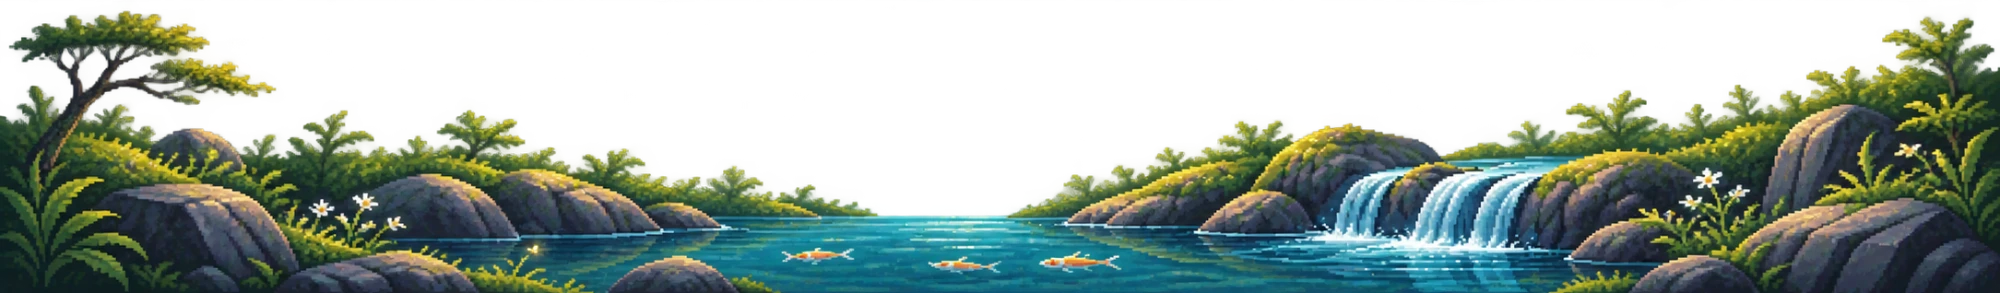
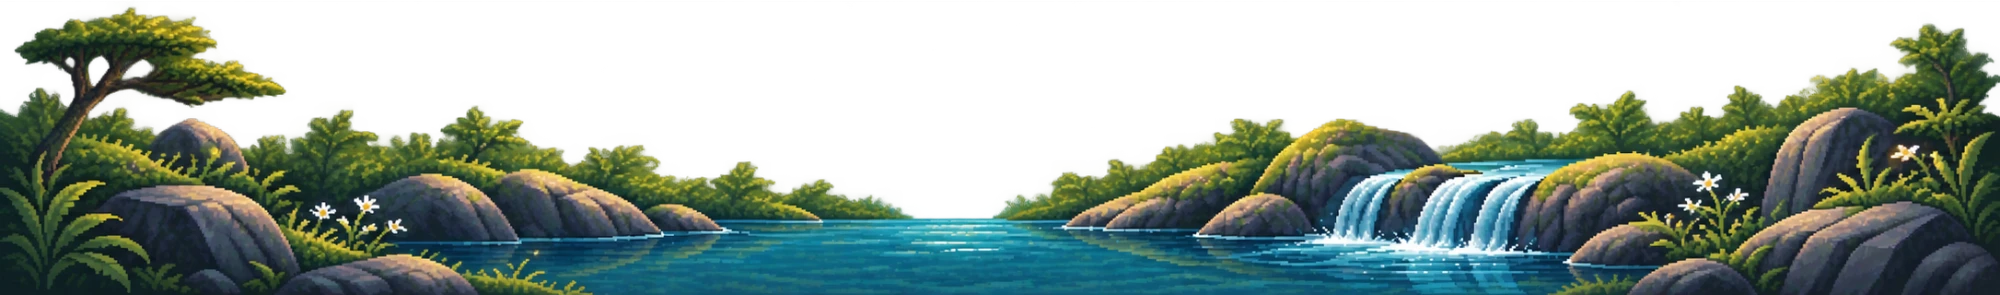
switches to the fish-free paintings and draws pixel koi by day and glowing fish at night, strengthens the plant and fish glow, and adds a soft colour wash rising from the scene into the post

Changed region(s): [[0.0, 0.0307, 1.0, 1.0], [0.124, 0.9215, 0.155, 0.9522], [0.062, 0.9215, 0.093, 0.9522]]

diff --git a/app/components/pond-scene.tsx b/app/components/pond-scene.tsx
@@ -3,16 +3,16 @@
 import { useEffect, useRef } from "react";
 
 // The scene at the bottom of each post: a painted pond with a waterfall,
-// rocks and plants (public/assets/pond-day.webp and pond-night.webp, 2000x293
-// with transparent skies), brought to life on a canvas.
+// rocks and plants (public/assets/pond-day.webp and pond-night.webp, about
+// 2000x295 with transparent skies), brought to life on a canvas.
 //
 // Each painting is sampled down to a 500x73 grid, about the size of its art
 // pixels, and scaled back up with crisp pixels. On load it's scanned for its
-// water, waterfall, fish and (at night) glowing plants; each frame copies
-// that base and animates them:
+// water, waterfall and (at night) glowing plants; each frame copies that base
+// and animates them:
 //   - the pond's surface shimmers and catches glints,
 //   - the waterfall's painted pixels pour downward, with foam at its foot,
-//   - the painted fish are lifted off the water and swim back and forth,
+//   - pixel fish (koi by day, glowing fish at night) swim back and forth,
 //     slipping behind the rocks,
 //   - at night the mushrooms, coral and painted fireflies pulse with a soft
 //     stepped glow; by day a dragonfly hovers and darts over the pond.
@@ -30,38 +30,68 @@ const FPS_INTERVAL = 1000 / 15;
 const SRC: Record<Theme, string> = { day: "/assets/pond-day.webp", night: "/assets/pond-night.webp" };
 
 // Where things are in the paintings, in grid pixels. The two share a layout.
-const POND = { x0: 100, x1: 420, top: 53 }; // open water lies inside this, below `top`
+const POND = { x0: 100, x1: 420, top: 52 }; // open water lies inside this, below `top`
 const FALLS = { x0: 326, x1: 388, top: 38, bottom: 63 };
 const FOAM = { x0: 330, x1: 392, top: 57, bottom: 64 };
-// Boxes around each painted fish, roomy enough to hold it.
-const FISH_BOXES: Record<Theme, [number, number, number, number][]> = {
-  day: [
-    [190, 60, 220, 69],
-    [226, 61, 256, 71],
-    [255, 61, 286, 70],
-  ],
-  night: [
-    [180, 62, 205, 70],
-    [213, 66, 240, 73],
-    [266, 63, 292, 73],
-  ],
-};
 
 const hash = (x: number, y: number, z = 0) => {
   const s = Math.sin(x * 127.1 + y * 311.7 + z * 74.7) * 43758.5453;
   return s - Math.floor(s);
 };
 
-type Fish = { sprite: { dx: number; dy: number; c: RGB }[]; cx: number; cy: number; range: number; speed: number; phase: number; glow: RGB };
+// ---------------------------------------------------------------------------
+// Fish: pixel sprites drawn over the water (the paintings have none of their
+// own). Facing right; mirrored when swimming left. Each letter is a colour
+// role; the tail has two frames so it flicks.
+//   f fin   b body   s spot   h head   e eye   w belly   t tail
+// ---------------------------------------------------------------------------
+
+const FISH_SHAPE = [
+  "....ff....",
+  "..bbbbbhh.",
+  ".bbssbbhhe",
+  "..wwwwwhh.",
+];
+// Tail pixels, [column, row] in the shape's grid: spread, then closed.
+const TAIL_FRAMES: [number, number][][] = [
+  [[0, 2], [-1, 1], [-2, 1], [-1, 3], [-2, 3]],
+  [[0, 2], [-1, 2], [-2, 1], [-2, 3]],
+];
+const FISH_ANCHOR = { col: 5, row: 2 }; // the shape's centre
+
+type FishLook = Record<"f" | "b" | "s" | "h" | "e" | "w" | "t", RGB>;
+const FISH_LOOKS: Record<Theme, FishLook[]> = {
+  day: [
+    // Orange koi with white patches.
+    { f: [222, 96, 40], b: [244, 120, 46], s: [250, 244, 232], h: [248, 140, 64], e: [40, 28, 28], w: [252, 236, 214], t: [226, 102, 42] },
+    // White koi with orange patches.
+    { f: [236, 228, 216], b: [250, 246, 238], s: [242, 126, 50], h: [246, 140, 70], e: [40, 28, 28], w: [255, 252, 246], t: [232, 224, 212] },
+    // Golden koi.
+    { f: [214, 156, 40], b: [242, 190, 60], s: [250, 222, 120], h: [246, 204, 90], e: [40, 28, 28], w: [252, 236, 186], t: [220, 164, 46] },
+  ],
+  night: [
+    // Glowing fish, like the landing scene's.
+    { f: [90, 210, 230], b: [120, 240, 255], s: [210, 255, 255], h: [170, 250, 255], e: [12, 40, 60], w: [190, 255, 255], t: [90, 220, 240] },
+    { f: [150, 120, 230], b: [180, 160, 255], s: [235, 225, 255], h: [210, 195, 255], e: [20, 20, 50], w: [225, 215, 255], t: [160, 130, 240] },
+    { f: [80, 200, 170], b: [120, 250, 210], s: [210, 255, 240], h: [170, 255, 230], e: [10, 40, 40], w: [200, 255, 240], t: [90, 220, 190] },
+  ],
+};
+
+// Each fish swims back and forth along its own lane of the pond.
+const FISH_LANES = [
+  { cx: 205, cy: 64, range: 26, speed: 0.2, phase: 0 },
+  { cx: 262, cy: 68, range: 30, speed: 0.16, phase: 2.4 },
+  { cx: 300, cy: 61, range: 18, speed: 0.25, phase: 4.1 },
+];
+
 type Column = { idx: number[]; colors: RGB[]; speed: number; phase: number };
 
 type Scene = {
-  base: Uint8ClampedArray; // the painting with its fish lifted off
+  base: Uint8ClampedArray; // the painting, sampled down
   water: Uint8Array; // open water: 1 where fish may swim and the surface shimmers
   waterIdx: number[];
   columns: Column[];
   foam: number[];
-  fish: Fish[];
   glow: { i: number; phase: number }[]; // glowing pixels at night
   halo: Float32Array | null; // r, g, b, strength per pixel, around the glow
 };
@@ -69,12 +99,9 @@ type Scene = {
 function buildScene(base: Uint8ClampedArray, theme: Theme): Scene {
   const at = (i: number): RGB => [base[i * 4], base[i * 4 + 1], base[i * 4 + 2]];
   const alpha = (i: number) => base[i * 4 + 3];
-  const set = (i: number, c: RGB) => {
-    base[i * 4] = c[0];
-    base[i * 4 + 1] = c[1];
-    base[i * 4 + 2] = c[2];
-  };
-  const isWaterColor = ([r, g, b]: RGB) => b > r + 40 && g > r + 30 && b > 70;
+  // The night pond is much darker, so it gets a looser test.
+  const isWaterColor = ([r, g, b]: RGB) =>
+    theme === "day" ? b > r + 40 && g > r + 30 && b > 70 : b > r + 25 && g > r + 15 && b > 40;
   const inFalls = (x: number, y: number) => x >= FALLS.x0 && x <= FALLS.x1 && y >= FALLS.top && y <= FALLS.bottom;
 
   // Open water: water-coloured pixels inside the pond, outside the falls.
@@ -84,50 +111,6 @@ function buildScene(base: Uint8ClampedArray, theme: Theme): Scene {
       const i = y * W + x;
       if (alpha(i) > 200 && !inFalls(x, y) && isWaterColor(at(i))) water[i] = 1;
     }
-
-  // Fish: inside each box, the pixels that aren't plain water (their outlines
-  // included), plus, at night, the bright cyan of their glowing bodies. Lift
-  // them off as a sprite and paint the water back in from either side.
-  const fish: Fish[] = [];
-  FISH_BOXES[theme].forEach(([x0, y0, x1, y1], n) => {
-    const isFish = (r: number, g: number, b: number) =>
-      !isWaterColor([r, g, b]) || (theme === "day" ? r + g + b > 560 : r + g + b > 330);
-    const pts: { x: number; y: number; c: RGB }[] = [];
-    for (let y = y0; y <= Math.min(y1, H - 1); y++)
-      for (let x = x0; x <= x1; x++) {
-        const i = y * W + x;
-        const c = at(i);
-        if (alpha(i) > 200 && isFish(...c)) pts.push({ x, y, c });
-      }
-    if (pts.length < 4) return;
-    const cx = Math.round(pts.reduce((s, p) => s + p.x, 0) / pts.length);
-    const cy = Math.round(pts.reduce((s, p) => s + p.y, 0) / pts.length);
-    const taken = new Set(pts.map((p) => p.y * W + p.x));
-    for (const p of pts) {
-      // Nearest water on the left and right of this pixel, blended.
-      let l: RGB | null = null;
-      let r: RGB | null = null;
-      for (let k = 1; k < 30 && (!l || !r); k++) {
-        const li = p.y * W + p.x - k;
-        const ri = p.y * W + p.x + k;
-        if (!l && p.x - k >= 0 && !taken.has(li) && isWaterColor(at(li))) l = at(li);
-        if (!r && p.x + k < W && !taken.has(ri) && isWaterColor(at(ri))) r = at(ri);
-      }
-      const fill = l && r ? ([(l[0] + r[0]) / 2, (l[1] + r[1]) / 2, (l[2] + r[2]) / 2] as RGB) : (l ?? r);
-      if (fill) set(p.y * W + p.x, fill);
-      water[p.y * W + p.x] = 1;
-    }
-    const avg = pts.reduce((s, p) => [s[0] + p.c[0], s[1] + p.c[1], s[2] + p.c[2]], [0, 0, 0]).map((v) => v / pts.length) as RGB;
-    fish.push({
-      sprite: pts.map((p) => ({ dx: p.x - cx, dy: p.y - cy, c: p.c })),
-      cx,
-      cy,
-      range: 14 + n * 5,
-      speed: 0.22 + n * 0.05,
-      phase: n * 2.1,
-      glow: avg,
-    });
-  });
 
   const waterIdx: number[] = [];
   for (let i = 0; i < W * H; i++) if (water[i]) waterIdx.push(i);
@@ -166,7 +149,7 @@ function buildScene(base: Uint8ClampedArray, theme: Theme): Scene {
       }
     // A stepped halo around the glowing pixels, built once.
     halo = new Float32Array(W * H * 4);
-    const R = 6;
+    const R = 8;
     for (const { i } of glow) {
       const gx = i % W;
       const gy = (i / W) | 0;
@@ -178,7 +161,7 @@ function buildScene(base: Uint8ClampedArray, theme: Theme): Scene {
           const x = gx + dx;
           const y = gy + dy;
           if (x < 0 || y < 0 || x >= W || y >= H) continue;
-          const f = (Math.ceil((1 - d) ** 2 * 4) / 4) * 0.05;
+          const f = (Math.ceil((1 - d) ** 2 * 4) / 4) * 0.08;
           const j = (y * W + x) * 4;
           halo[j] += c[0] * f;
           halo[j + 1] += c[1] * f;
@@ -188,7 +171,7 @@ function buildScene(base: Uint8ClampedArray, theme: Theme): Scene {
     }
   }
 
-  return { base, water, waterIdx, columns, foam, fish, glow, halo };
+  return { base, water, waterIdx, columns, foam, glow, halo };
 }
 
 const DRAGONFLY = { body: [34, 132, 146] as RGB, head: [22, 86, 100] as RGB, wing: [214, 236, 244] as RGB };
@@ -245,35 +228,44 @@ function renderFrame(s: Scene, frame: Uint8ClampedArray, theme: Theme, t: number
   }
   for (const i of s.foam) if (hash(i, Math.floor(t * 10)) > 0.9) lift(i, 0.5);
 
-  // Fish swim back and forth, drawn only over open water so they pass
-  // behind the rocks. The paintings' fish face right.
-  for (const f of s.fish) {
-    const a = t * f.speed + f.phase;
-    const X = Math.round(f.cx + Math.sin(a) * f.range);
-    const Y = Math.round(f.cy + Math.sin(a * 1.7) * 0.8);
+  // Fish swim back and forth along their lanes, turning at each end, drawn
+  // only over open water so they pass behind the rocks.
+  FISH_LANES.forEach((lane, n) => {
+    const look = FISH_LOOKS[theme][n % FISH_LOOKS[theme].length];
+    const a = t * lane.speed + lane.phase;
+    const X = Math.round(lane.cx + Math.sin(a) * lane.range);
+    const Y = Math.round(lane.cy + Math.sin(a * 1.7) * 0.8);
     const dir = Math.cos(a) >= 0 ? 1 : -1;
+    const water = (x: number, y: number) => (x >= 0 && y >= 0 && x < W && y < H && s.water[y * W + x] ? y * W + x : -1);
+
     if (night) {
-      for (let dy = -3; dy <= 3; dy++)
-        for (let dx = -6; dx <= 6; dx++) {
-          const x = X + dx;
-          const y = Y + dy;
-          if (x < 0 || y < 0 || x >= W || y >= H) continue;
-          const i = y * W + x;
-          if (!s.water[i]) continue;
-          const k = Math.max(0, 1 - Math.hypot(dx / 6, dy / 3)) * 0.22;
-          frame[i * 4] += f.glow[0] * k;
-          frame[i * 4 + 1] += f.glow[1] * k;
-          frame[i * 4 + 2] += f.glow[2] * k;
+      // A soft glow on the water around the fish.
+      for (let dy = -5; dy <= 5; dy++)
+        for (let dx = -10; dx <= 10; dx++) {
+          const i = water(X + dx, Y + dy);
+          if (i < 0) continue;
+          const d = Math.hypot(dx / 10, dy / 5);
+          if (d >= 1) continue;
+          const k = (1 - d) ** 2 * 0.6;
+          frame[i * 4] += look.b[0] * k;
+          frame[i * 4 + 1] += look.b[1] * k;
+          frame[i * 4 + 2] += look.b[2] * k;
         }
     }
-    for (const p of f.sprite) {
-      const x = X + p.dx * dir;
-      const y = Y + p.dy;
-      if (x < 0 || y < 0 || x >= W || y >= H) continue;
-      const i = y * W + x;
-      if (s.water[i]) put(i, p.c);
-    }
-  }
+
+    const px = (col: number, row: number, c: RGB) => {
+      const i = water(X + (col - FISH_ANCHOR.col) * dir, Y + row - FISH_ANCHOR.row);
+      if (i >= 0) put(i, c);
+    };
+    FISH_SHAPE.forEach((line, row) => {
+      for (let col = 0; col < line.length; col++) {
+        const role = line[col] as keyof FishLook;
+        if (role in look) px(col, row, look[role]);
+      }
+    });
+    const flick = Math.floor(t * 5 + n) % 2;
+    for (const [col, row] of TAIL_FRAMES[flick]) px(col, row, look.t);
+  });
 
   if (night && s.halo) {
     // The plants' glow breathes, each patch on its own rhythm.
@@ -291,7 +283,7 @@ function renderFrame(s: Scene, frame: Uint8ClampedArray, theme: Theme, t: number
         frame[j] = halo[j] / f;
         frame[j + 1] = halo[j + 1] / f;
         frame[j + 2] = halo[j + 2] / f;
-        frame[j + 3] = Math.max(a, strength * 160);
+        frame[j + 3] = Math.max(a, strength * 220);
       } else {
         frame[j] += halo[j] * k;
         frame[j + 1] += halo[j + 1] * k;
@@ -301,7 +293,7 @@ function renderFrame(s: Scene, frame: Uint8ClampedArray, theme: Theme, t: number
     // The glowing pixels themselves brighten and dim a little.
     for (const g of s.glow) {
       const k = 0.5 + 0.5 * Math.sin(t * 1.1 + g.phase);
-      if (k > 0.6) lift(g.i, (k - 0.6) * 0.5);
+      if (k > 0.6) lift(g.i, (k - 0.6) * 0.8);
       else {
         const dim = 0.85 + k * 0.25;
         frame[g.i * 4] *= dim;

diff --git a/app/posts/post-page.css b/app/posts/post-page.css
@@ -38,13 +38,34 @@
 
 /* ---------- The pond scene at the bottom of the page ---------- */
 
-/* The paintings have transparent skies, so the page shows through above the
-   art; the fade softens the treetops into the page. */
+/* A soft wash of the scene's colour rises from behind it into the page, so
+   the post fades into the scene rather than stopping at its treetops. The
+   paintings' transparent skies let it show through. */
 .post-ground {
   position: relative;
   margin-top: auto;
-  -webkit-mask-image: linear-gradient(transparent, black 40%);
-  mask-image: linear-gradient(transparent, black 40%);
+  padding-top: 160px;
+  background: linear-gradient(to bottom, transparent, var(--ground-tint) 75%);
+}
+
+@media (max-width: 575px) {
+  .post-ground {
+    padding-top: 100px;
+  }
+}
+
+[data-theme="night"] .post-ground {
+  --ground-tint: rgb(14 52 66 / 0.85);
+}
+
+[data-theme="day"] .post-ground {
+  --ground-tint: rgb(196 228 226 / 0.9);
+}
+
+/* The treetops soften into that wash. */
+.post-ground .pond-scene {
+  -webkit-mask-image: linear-gradient(transparent, black 30%);
+  mask-image: linear-gradient(transparent, black 30%);
 }
 
 .pond-scene {

diff --git a/app/posts/layout.tsx b/app/posts/layout.tsx
@@ -18,7 +18,7 @@ export default function Layout({ children }: { children: React.ReactNode }) {
       <main className="post-sheet">{children}</main>
       <footer className="post-ground" aria-hidden="true">
         <PondScene />
-        <Fireflies className="ground-flies" count={12} zone={[0.15, 0.7]} />
+        <Fireflies className="ground-flies" count={14} zone={[0.3, 0.82]} />
       </footer>
     </div>
   );
